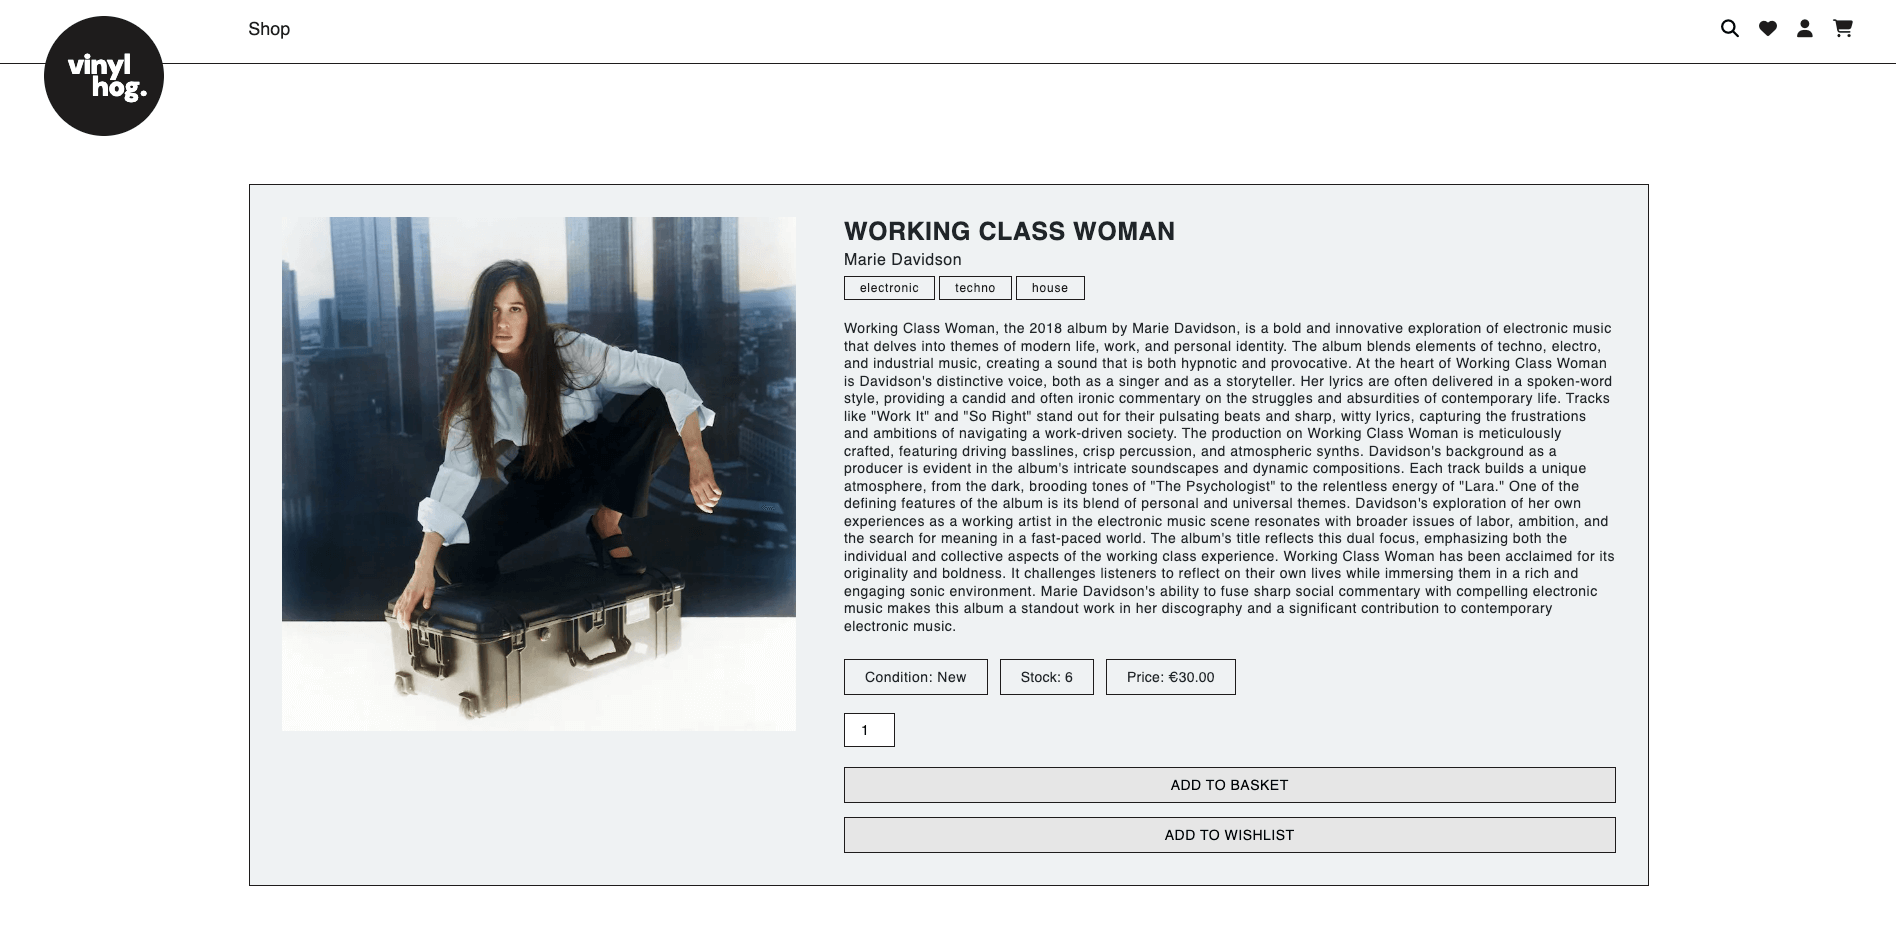
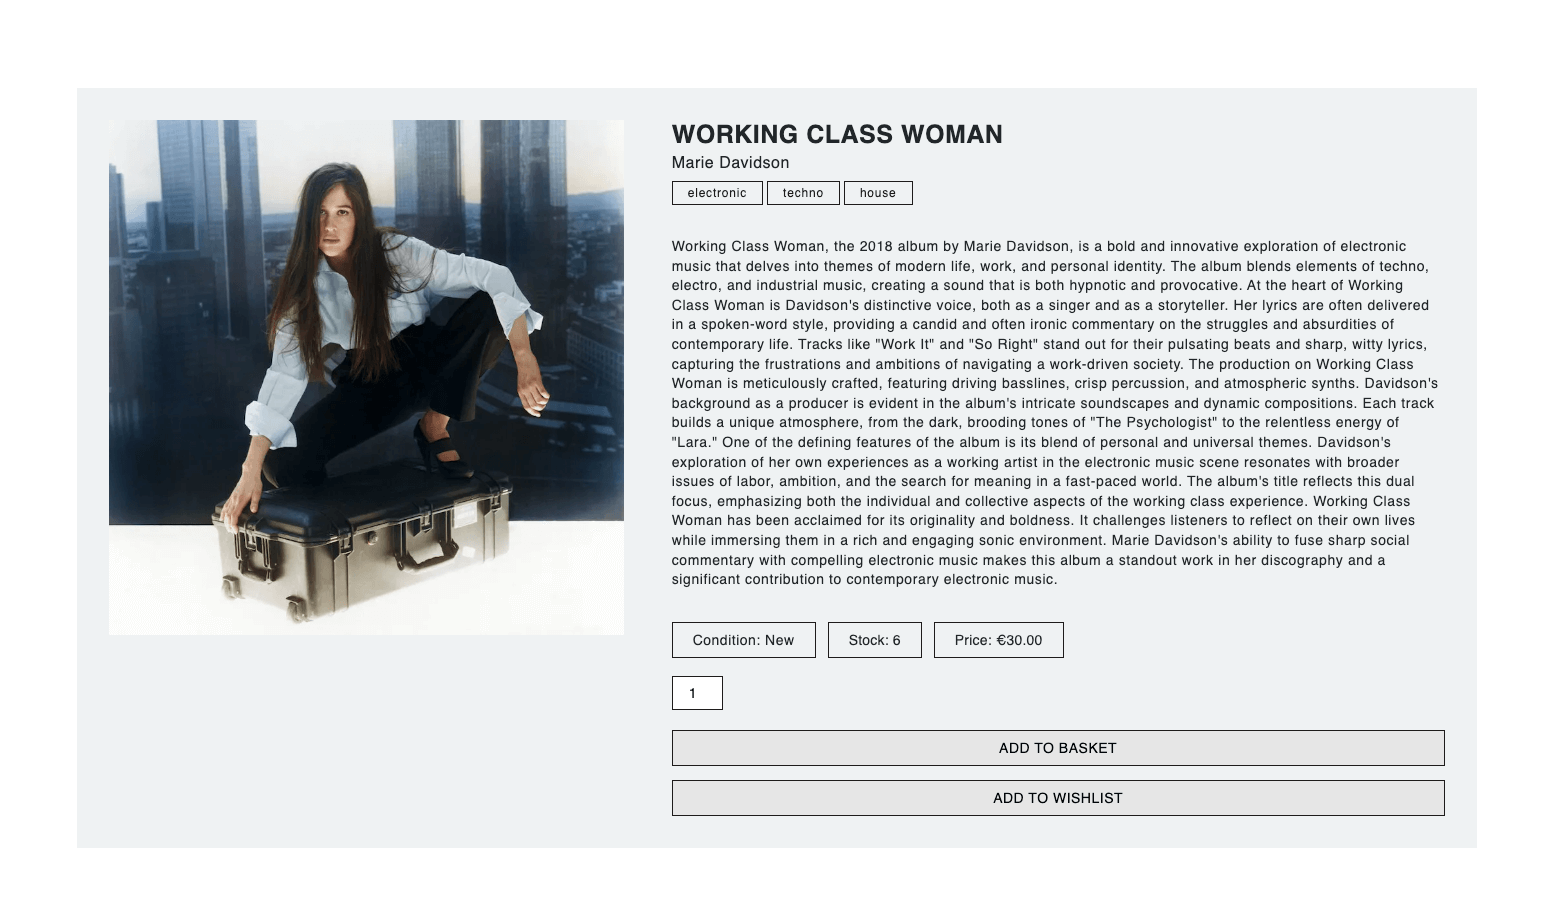
Update Readme file

Changed region(s): [[0.0, 0.0, 0.9581, 0.92], [0.9272, 0.0, 0.9581, 0.0613], [0.1236, 0.0307, 0.1545, 0.0613]]

diff --git a/static/styles/product.css b/static/styles/product.css
@@ -15,7 +15,9 @@ SINGLE PRODUCT DISPLAY CLASSES
     grid-template-columns: 1fr 1.5fr;
     gap: 4.8rem;
     margin-top: 6.4rem;
+    /*
     border: .5px solid #1E1C1C;
+    */
     padding: 3.2rem;
     align-items:start;
     margin-bottom: 12rem;
@@ -32,6 +34,10 @@ SINGLE PRODUCT DISPLAY CLASSES
     width: 100%;
 }
 
+.key-info--box {
+    margin-bottom: 3.2rem;
+}
+
 .product-title {
     margin-bottom: .5rem;
     letter-spacing: 0.05rem;
@@ -41,7 +47,7 @@ SINGLE PRODUCT DISPLAY CLASSES
 .product-artist {
     font-size: 1.6rem;
     letter-spacing: 0.05rem;
-    margin-bottom: .8rem;
+    margin-bottom: 1rem;
     
 }
 .tag-container {
@@ -58,7 +64,7 @@ SINGLE PRODUCT DISPLAY CLASSES
     width:fit-content;
     padding: .5rem 1.5rem;
     
-    margin-bottom: 2rem;
+   
     border: 0.1rem solid #1E1C1C;
     transition: all 0.3s;
   }
@@ -74,9 +80,9 @@ SINGLE PRODUCT DISPLAY CLASSES
 
 .product-description {
     font-size: 1.4rem;
-    line-height: 1.25;
-    letter-spacing: 0.05rem;
-    margin-bottom: 2.4rem;
+    line-height: 1.4;
+    letter-spacing: 0.06rem;
+    margin-bottom: 3.2rem;
 }
 
 .info-box {
@@ -209,6 +215,13 @@ SINGLE PRODUCT DISPLAY CLASSES
     .form,
     .form {
         width: 100%;
+    }
+
+    .product-description {
+       
+        line-height: 1.3;
+        letter-spacing: 0.06rem;
+        
     }
 
 }

diff --git a/products/templates/products/product.html b/products/templates/products/product.html
@@ -29,14 +29,16 @@
         </div>
 
         <div class="details-container">
-            <h1 class="product-title"> <strong>{{ product.title }}</strong></h1>
-            <p class="product-artist"> {{ product.artist }}</p>
-            <div class="tag-container">
-                {% for genre in product.genres.all %}
-                    <span>
-                        <a href="{% url 'products' %}?genre={{genre.name}}"><p class="genre-tag">{{genre}}</p></a>
-                    </span>
-                {% endfor %}
+            <div class="key-info--box">
+                <h1 class="product-title"> <strong>{{ product.title }}</strong></h1>
+                <p class="product-artist"> {{ product.artist }}</p>
+                <div class="tag-container">
+                    {% for genre in product.genres.all %}
+                        <span>
+                            <a href="{% url 'products' %}?genre={{genre.name}}"><p class="genre-tag">{{genre}}</p></a>
+                        </span>
+                    {% endfor %}
+                </div>
             </div>
             <p class="product-description"> {{ product.description }}</p>
 

diff --git a/products/templates/products/products.html b/products/templates/products/products.html
@@ -31,6 +31,7 @@
                 <a class="dropdown-item" href="{% url 'products' %}?condition=fresh">Latest Releases</a>
                 <a class="dropdown-item" href="{% url 'products' %}">All</a>
                 <a class="dropdown-item" href="{% url 'products' %}?condition=New">New</a>
+                <a class="dropdown-item" href="{% url 'products' %}?condition=New">New</a>
                 <a class="dropdown-item" href="{% url 'products' %}?condition=Used">Used</a>
                 <a class="dropdown-item" href="{% url 'products' %}?sale=on_sale">On Sale</a>
             </div>
@@ -54,6 +55,7 @@
                 <a href="{% url 'products' %}?condition=New"><p>New</p></a>
                 <a href="{% url 'products' %}?condition=Used"><p>Used</p></a>
                 <a href="{% url 'products' %}?sale=on_sale"><p>On Sale</p></a>
+                <a href="{% url 'products' %}?condition=fresh"><p>Latest Releases</p></a>
             </div>
 
             <div class="aside-category ">

diff --git a/static/styles/general.css b/static/styles/general.css
@@ -56,11 +56,15 @@ a:hover {
   text-decoration: none;
 }
 
+
+
 /*
 ****************************
 SECTION-HEADING CLASSES
 ****************************
 */
+
+
 
 .head-container {
   padding: 9.6rem 0 6.4rem 9.6rem;
@@ -85,7 +89,10 @@ gap:3.2rem;
   font-size: 4.8rem;
   font-weight: 600;
   padding-bottom: 1rem;
+  text-transform: capitalize;
 }
+
+
 
 .head-text {
   font-size: 1.6rem;
@@ -101,11 +108,11 @@ PRODUCT-GRID DISPLAY CLASSES
 .products-grid {
   width: 100%;
   height: 100%;
-  margin: 0 auto;
   display: grid;
   grid-template-columns: 1fr 1fr 1fr 1fr;
   gap: 6.4rem;
   padding: 0 9.6rem 0 9.6rem;
+  margin: 0 auto;
   margin-bottom: 9.6rem;
 }
 

diff --git a/home/templates/home/home.html b/home/templates/home/home.html
@@ -24,8 +24,8 @@ SECTION LANDING
                 </p>
                 -->
                 <p>
-                    Immerse yourself in a symphony of choices as you peruse our curated selection of vinyl gems.
-                     From timeless classics to cutting-edge releases,start your auditory adventure today.
+                    Immerse yourself in a symphony of choices as you peruse our curated selection of vinyl record gems.
+                     From timeless classics to cutting-edge releases start your auditory adventure today.
                   </p>
             </div>
         </div>

diff --git a/products/views.py b/products/views.py
@@ -27,6 +27,10 @@ def products(request):
 
     if request.GET:
 
+        if 'recent' in request.GET:
+            products = Album.objects.all().order_by('-date_added')
+            section_text = "Recently added vinyl."
+
         if 'sale' in request.GET:
             products = Album.objects.filter(on_sale=True)
             section_heading = "On Sale Vinyl"

diff --git a/README.md b/README.md
@@ -182,49 +182,149 @@ Book This is a custom product model. It is connected to Genre as a ManyToManyFie
 
 ## Features
 
-### Navigation Bar & Landing Page
-![Screenshot of navigation, logo and landing page](static/images/readme-imgs/landing_page.png)
+### Header and Navigation
+<details><br>
 
-
-- The logo is displayed on the top left of the page. Encircled in a black circle, it extends below the navigation section.
-
-- The "Records" dropdown menu provides quick access to the products on offer in categories of "new", "used" and "all".
-
+- The logo is displayed on the top left of the page. It also acts as a link back to the homepage.
+- The "Shop" dropdown menu provides quick access to the products on offer in categories of "new", "used" and "all".
 - The search box allows users to search for products.
-
 - The wishlist heart icon allows access to the users wishlist.
-
-- The user icon allows access to the areas depending if the user is logged in or not.
-
+- The user icon allows access to areas depending if the user is logged in or not. Product manage pages will be shown if the user is an admin user.
 - The basket icon leads to the basket page. It also displays how many items are in the basket.
 
+![Screenshot of navigation, logo and landing page](static/images/readme_imgs/header.png)
+![Screenshot of navigation, logo and landing page](static/images/readme_imgs/header_icons.png)
+
+</details>
 
 ### Landing Page
-<details>
-The landing page is quite minimal and utilizes negative space to lend a feeling sparceness and sophistaction. 
-It was inportant that this page visually reflected the businesses values in aesthetic and tone.
+<details><br>
+- The landing page is quite minimal and utilizes negative space to lend a feeling sparceness and sophistaction. 
+- It was inportant that this page visually reflected the businesses values in aesthetic and tone.
+- The headline and descriptive text include some SEO keywords such as: "vinyl records" & "curated".
+- A CTA button was decided against to preserve the visual integrity of the page.
+
+![Screenshot of navigation, logo and landing page](static/images/readme_imgs/landing_page.png)
 </details>
 
 ### New Releases Section
 <details>
  As one scrolls down the home page we have the "New Releases" section. It displays the most recently added products.
+
+ ![Screenshot of navigation, logo and landing page](static/images/readme_imgs/landing_page.png)
 </details>
 
 ### Recommendation Section
-<details>
+<details><br>
 This section displays the latest four recommendation posts added. These are written by staff of the company and act as high quality content to serve the customer and further engagement.
 </details>
 
 ### Footer Section
 
-- The footer displays some of the stores key information and social media links. It also has an subscription form.
+<details><br>
+
+The footer displays a subscription form some of the businesses key information this includes:
+- A subscription form for newsletters
+- Social media links
+- Contact information
+- Logo  
+- "Our Story" page
+- Shipping information page 
+- Returns page 
+- "Planet Vinyl Hog" page which will be implemted in the future.
+
+ ![Screenshot of navigation, logo and landing page](static/images/readme_imgs/footer.png)
+  ![Screenshot of navigation, logo and landing page](static/images/readme_imgs/our_story.png)
+  ![Screenshot of navigation, logo and landing page](static/images/readme_imgs/shipping.png)
+   ![Screenshot of navigation, logo and landing page](static/images/readme_imgs/returns.png)
+</details>
+
+### Account Pages
+<details><br>
+
+ This is done through Allauth. In setting up an account an email and username are necessary. 
+- The links are provided in the dropdown menu in the header section; the links shown will depend on whether the user is logged in or not.
+- The pages include: Sign In page, Sign Out page & Register account page.
+- There is also a Password reset page to rectify forgotten passwords. <br>
+
+ ![Screenshot of navigation, logo and landing page](static/images/readme_imgs/sign_in.png)
+  ![Screenshot of navigation, logo and landing page](static/images/readme_imgs/sign_up.png)
+   ![Screenshot of navigation, logo and landing page](static/images/readme_imgs/sign_out.png)
+    ![Screenshot of navigation, logo and landing page](static/images/readme_imgs/password_reset.png)
+</details>
 
 ### Products Page
+<details><br>
+
+The products page displayes on landing all the products in the database in a grid format.
+It includes kkey features to enhance the user experience including:
+- Ability to filter products by artist, genre, whether on sale or not & condition ( new/used ).
+- The ability for the user to use the search bar in the header which will return the product page with the relevant products.
+    The title and subtitle of the page will change with the filter.
+- The ability to sort the products by price.<br>
+
+ ![Screenshot of products page](static/images/readme_imgs/products_page.png)
+![Screenshot of products page with filter applied](static/images/readme_imgs/products_filter.png)
+ 
+</details>
+
 ### Product Page
+<details><br>
+
+ ![Screenshot of product page](static/images/readme_imgs/product.png)
+![Screenshot of product mobile screen size](static/images/readme_imgs/product_sm.png)
+</details>
+
 ### Basket
+<details><br>
+
+ ![Screenshot of navigation, logo and landing page](static/images/readme_imgs/footer.png)
+</details>
+
 ### Checkout
-### Account Pages
+<details><br>
+
+ ![Screenshot of navigation, logo and landing page](static/images/readme_imgs/footer.png)
+</details>
+
+### Order Confirmation
+<details>
+
+ ![Screenshot of navigation, logo and landing page](static/images/readme_imgs/footer.png)
+</details><br>
+
+### User Profile
+<details><br>
+
+ ![Screenshot of navigation, logo and landing page](static/images/readme_imgs/footer.png)
+</details>
+
+
+
 ### Wishlist
+<details><br>
+
+ ![Screenshot of navigation, logo and landing page](static/images/readme_imgs/footer.png)
+</details>
+
+### Product Management Pages
+<details><br>
+
+ ![Screenshot of navigation, logo and landing page](static/images/readme_imgs/footer.png)
+</details>
+
+
+
+
+
+
+
+
+
+
+
+
+
 
 ## Search Engine Optimization SEO and Marketing
 
